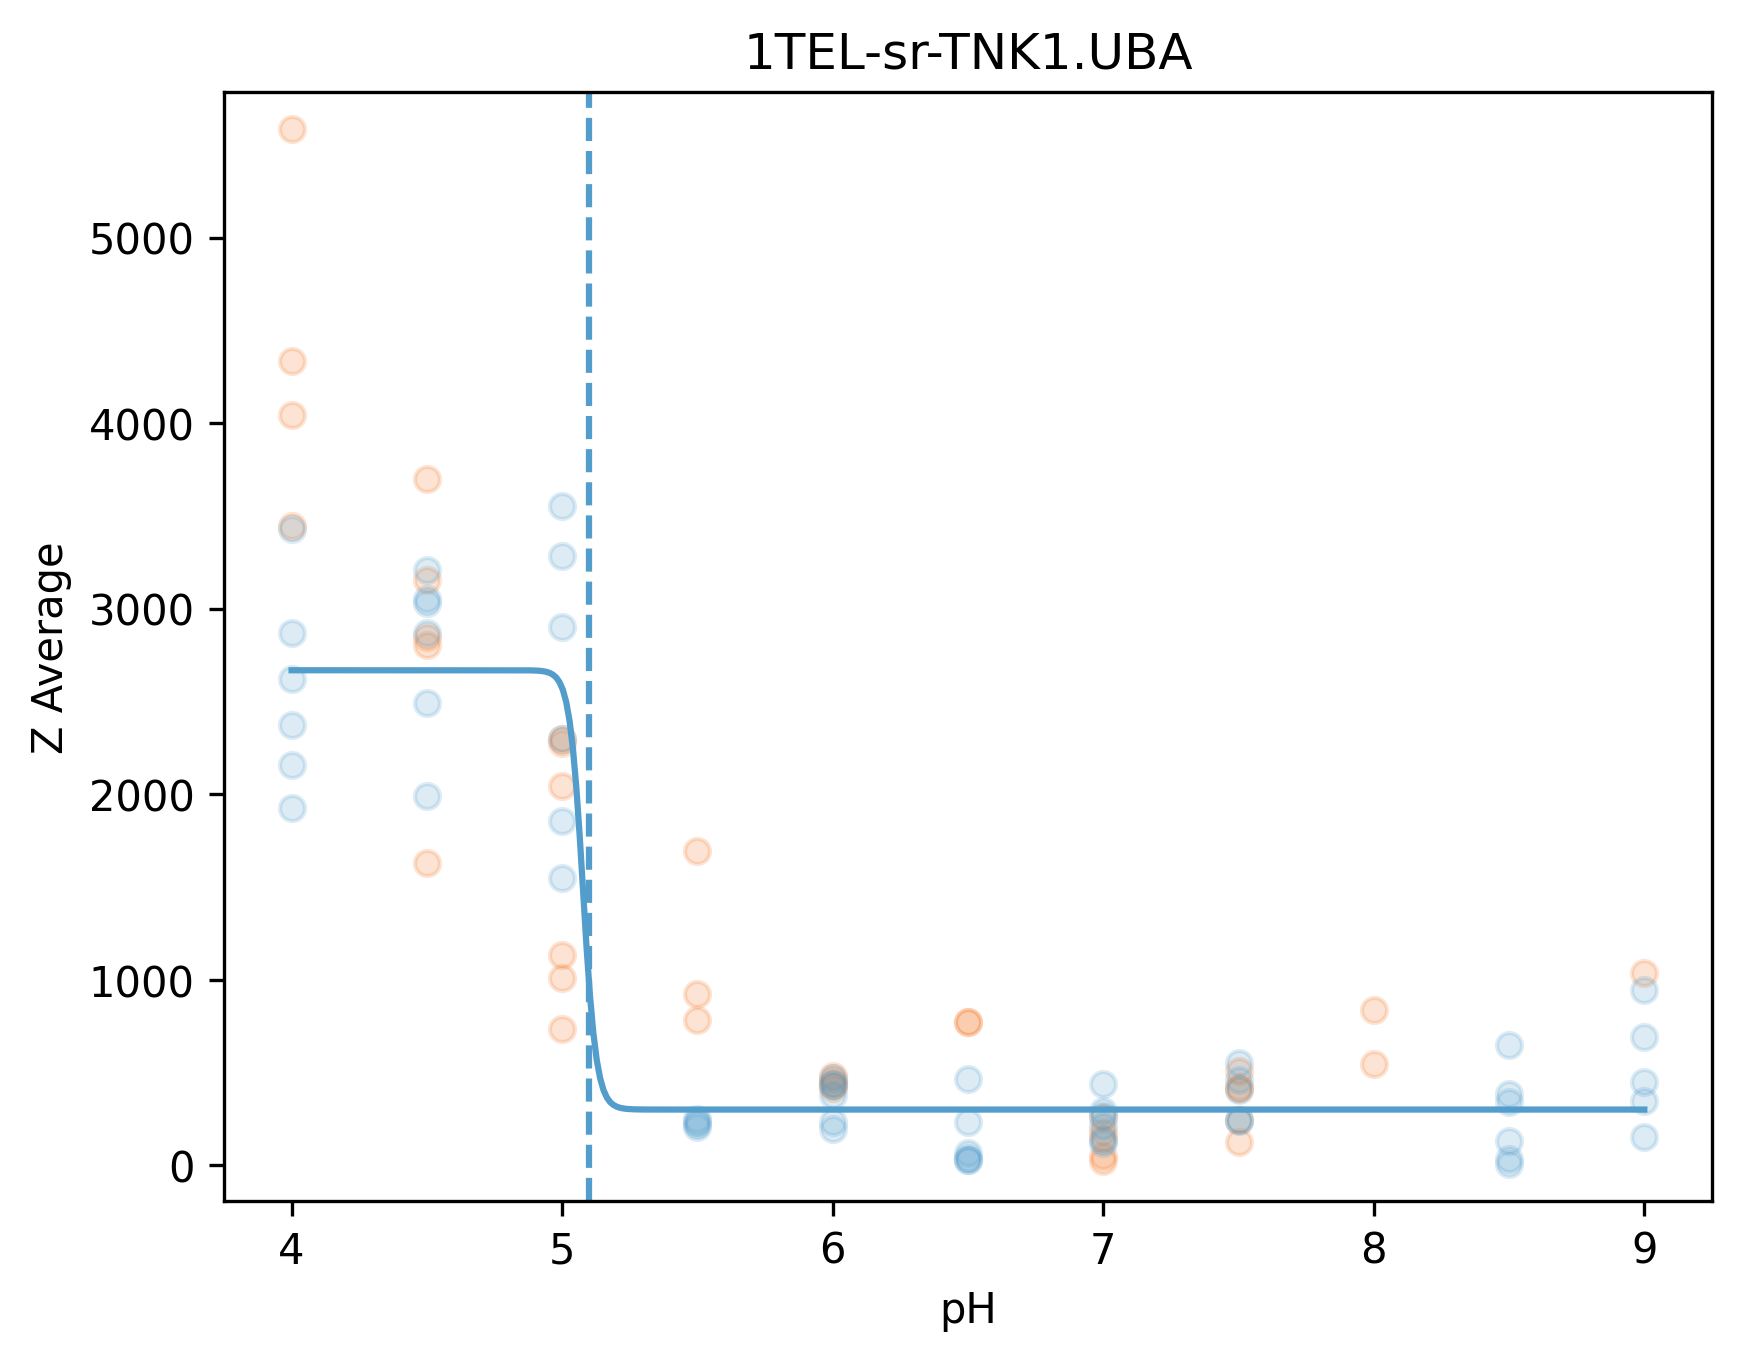
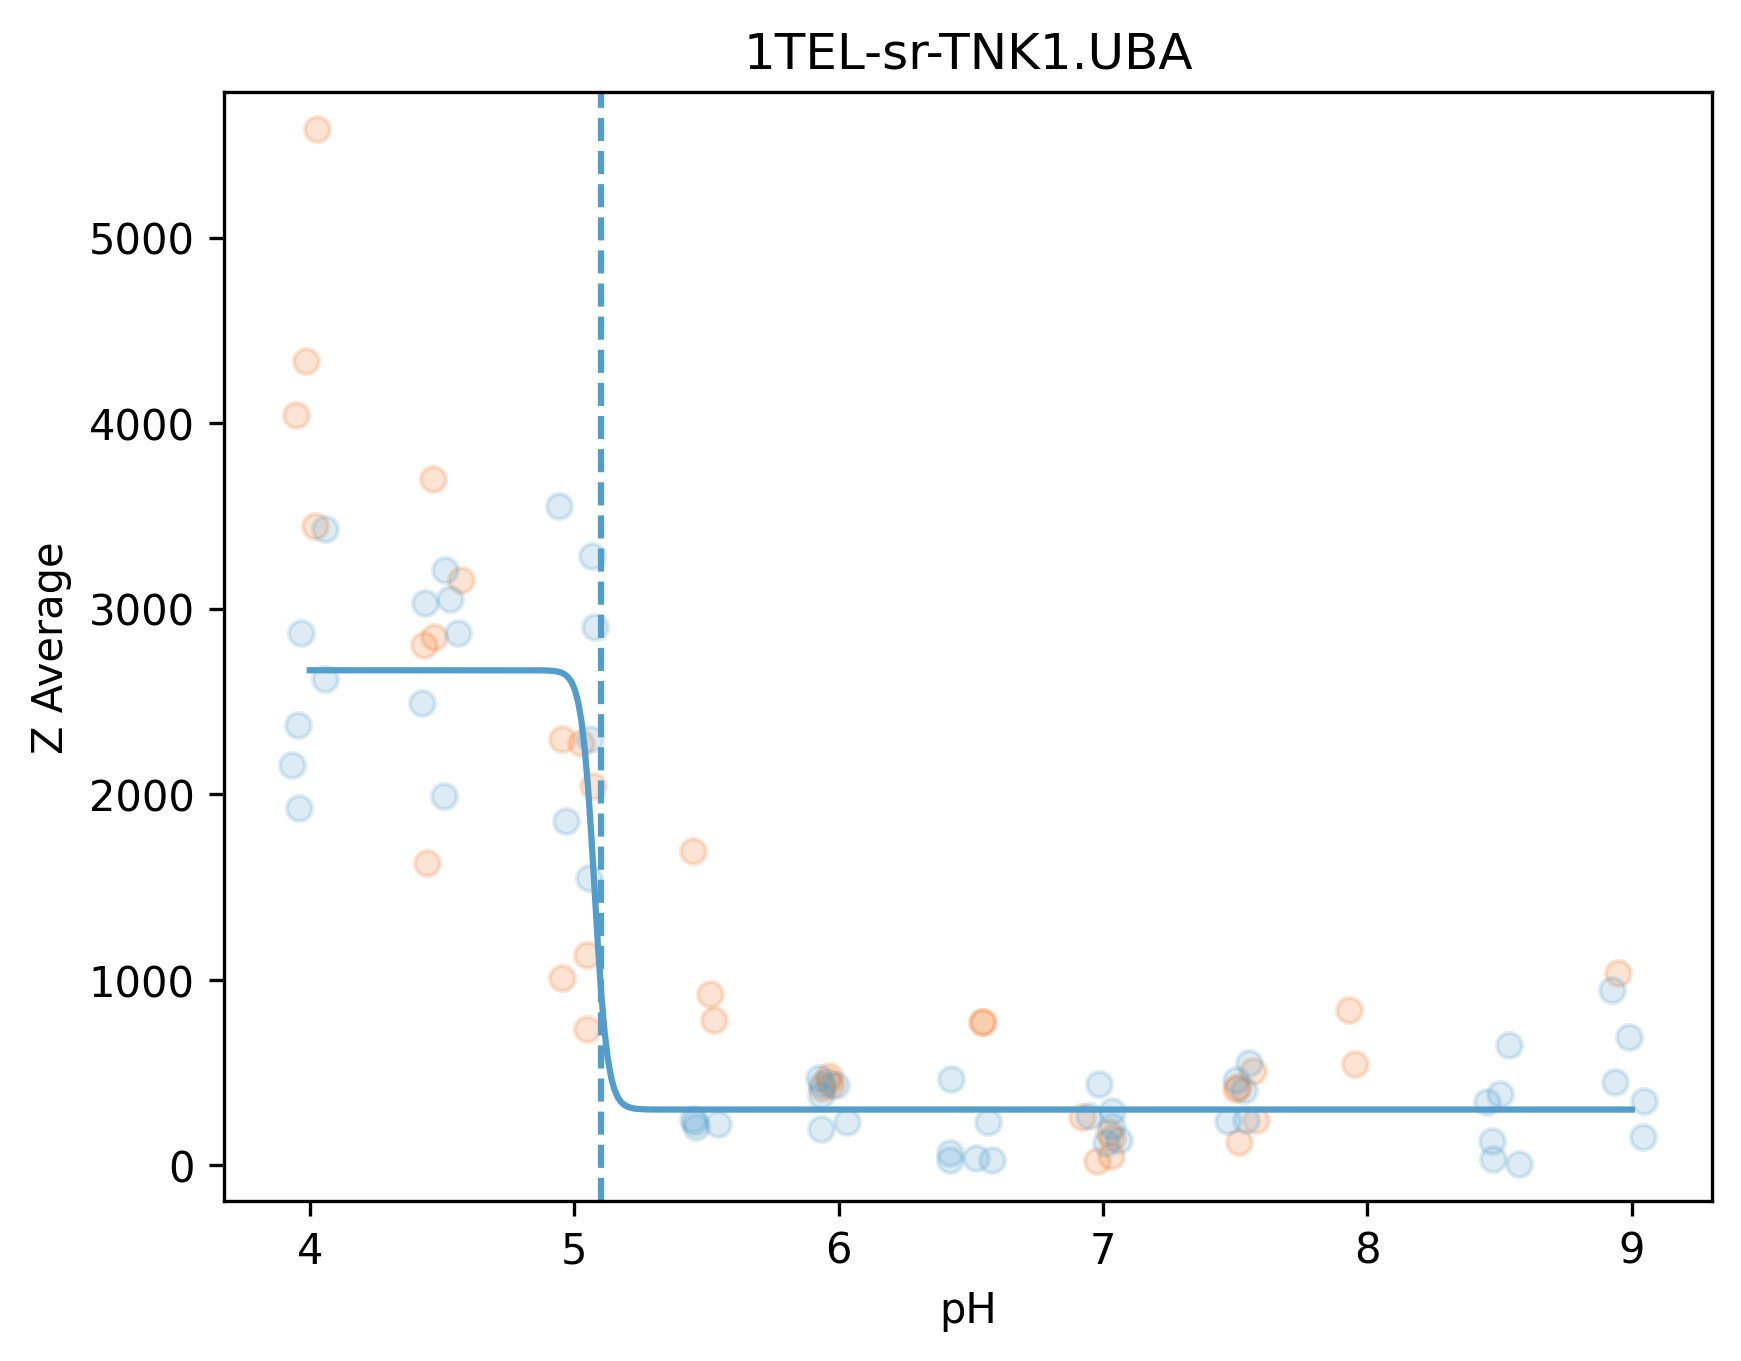
Fixed jittering

diff --git a/process_dls.py b/process_dls.py
@@ -96,7 +96,7 @@ def statisticize(protein_list:list,name:str = 'none', control_variable:str = 'Ti
                 Z_avgs_in_range, jittered_pHs_in_range = map(list, zip(*Z_avgs_in_range_paired))
                 plt.scatter(jittered_pHs_in_range, Z_avgs_in_range, marker='o', color=master_PdI_colors[PdI_range], alpha=0.5)
         else:
-                plt.scatter(pHs, Z_avgs, marker='o', color=color, alpha=0.2)
+                plt.scatter(jittered_pHs, Z_avgs, marker='o', color=color, alpha=0.2)
         plt.xlabel(f'pH')
         plt.ylabel(f'Z Average')
         #print(f'np.std(Z_avgs):{np.std(Z_avgs)}')
